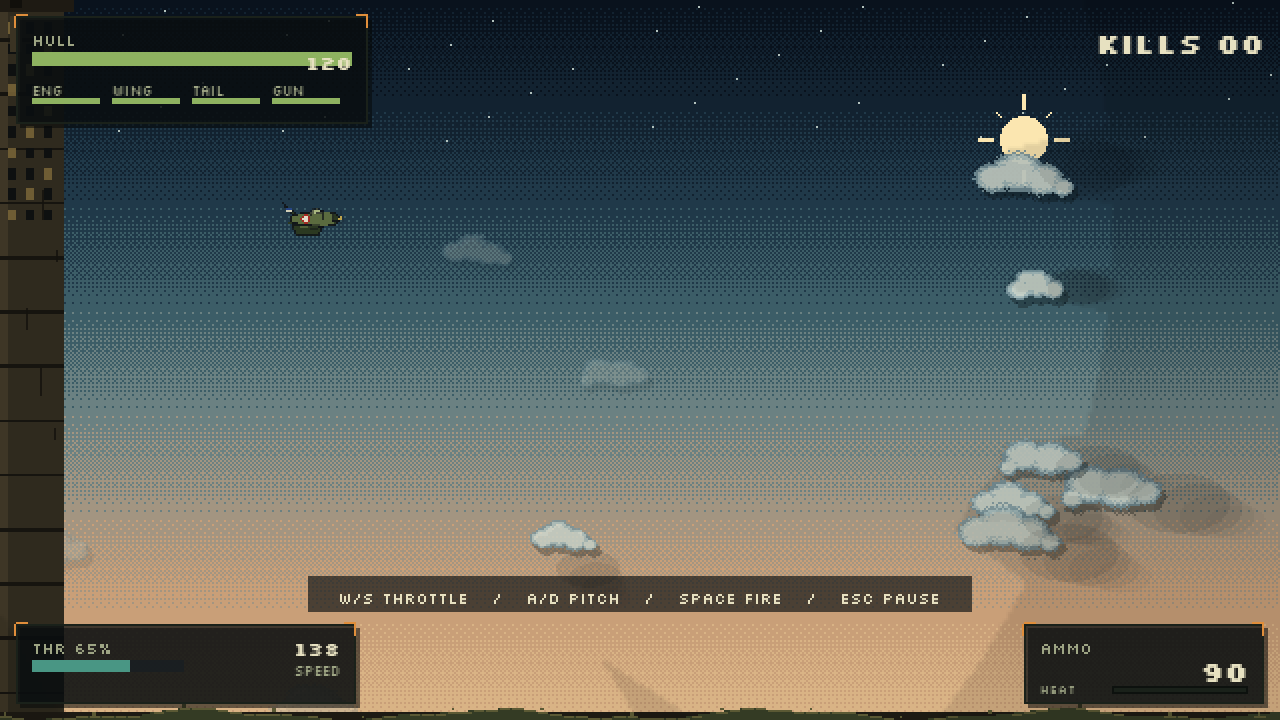
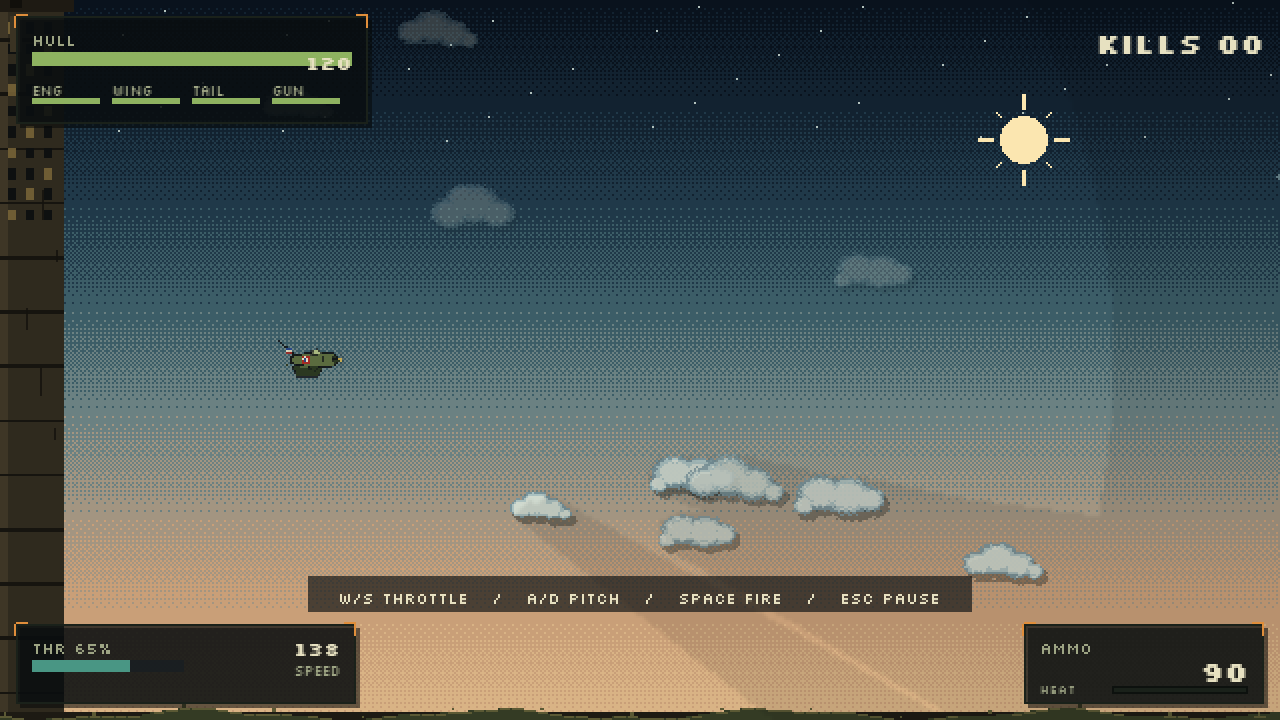
Make visibility server-authoritative and unify cloud shadows

diff --git a/README.md b/README.md
@@ -182,7 +182,7 @@ run.bat --server --port=7777
 ### Tests
 
 ```bat
-test.bat        :: 43 unit tests (flight, hitboxes, clouds, rounds, protocol)
+test.bat        :: 44 unit tests (flight, hitboxes, clouds, rounds, protocol)
 smoke.bat       :: boot, solo flight, commands, console and screenshots
 ```
 
@@ -229,5 +229,5 @@ docs/                      screenshots and debugging guide
 
 ## Status
 
-Version **0.2.5**. The game is in active playtesting: flight feel, network
+Version **0.2.6**. The game is in active playtesting: flight feel, network
 visibility, respawns, gun heat and room lifecycle are the current focus.

diff --git a/docs/DEBUGGING.md b/docs/DEBUGGING.md
@@ -253,7 +253,7 @@ uncaught error instead of hanging on the crash screen.
 test.bat
 ```
 
-43 tests cover:
+44 tests cover:
 
 - utility math/string wrapping;
 - class inheritance;
